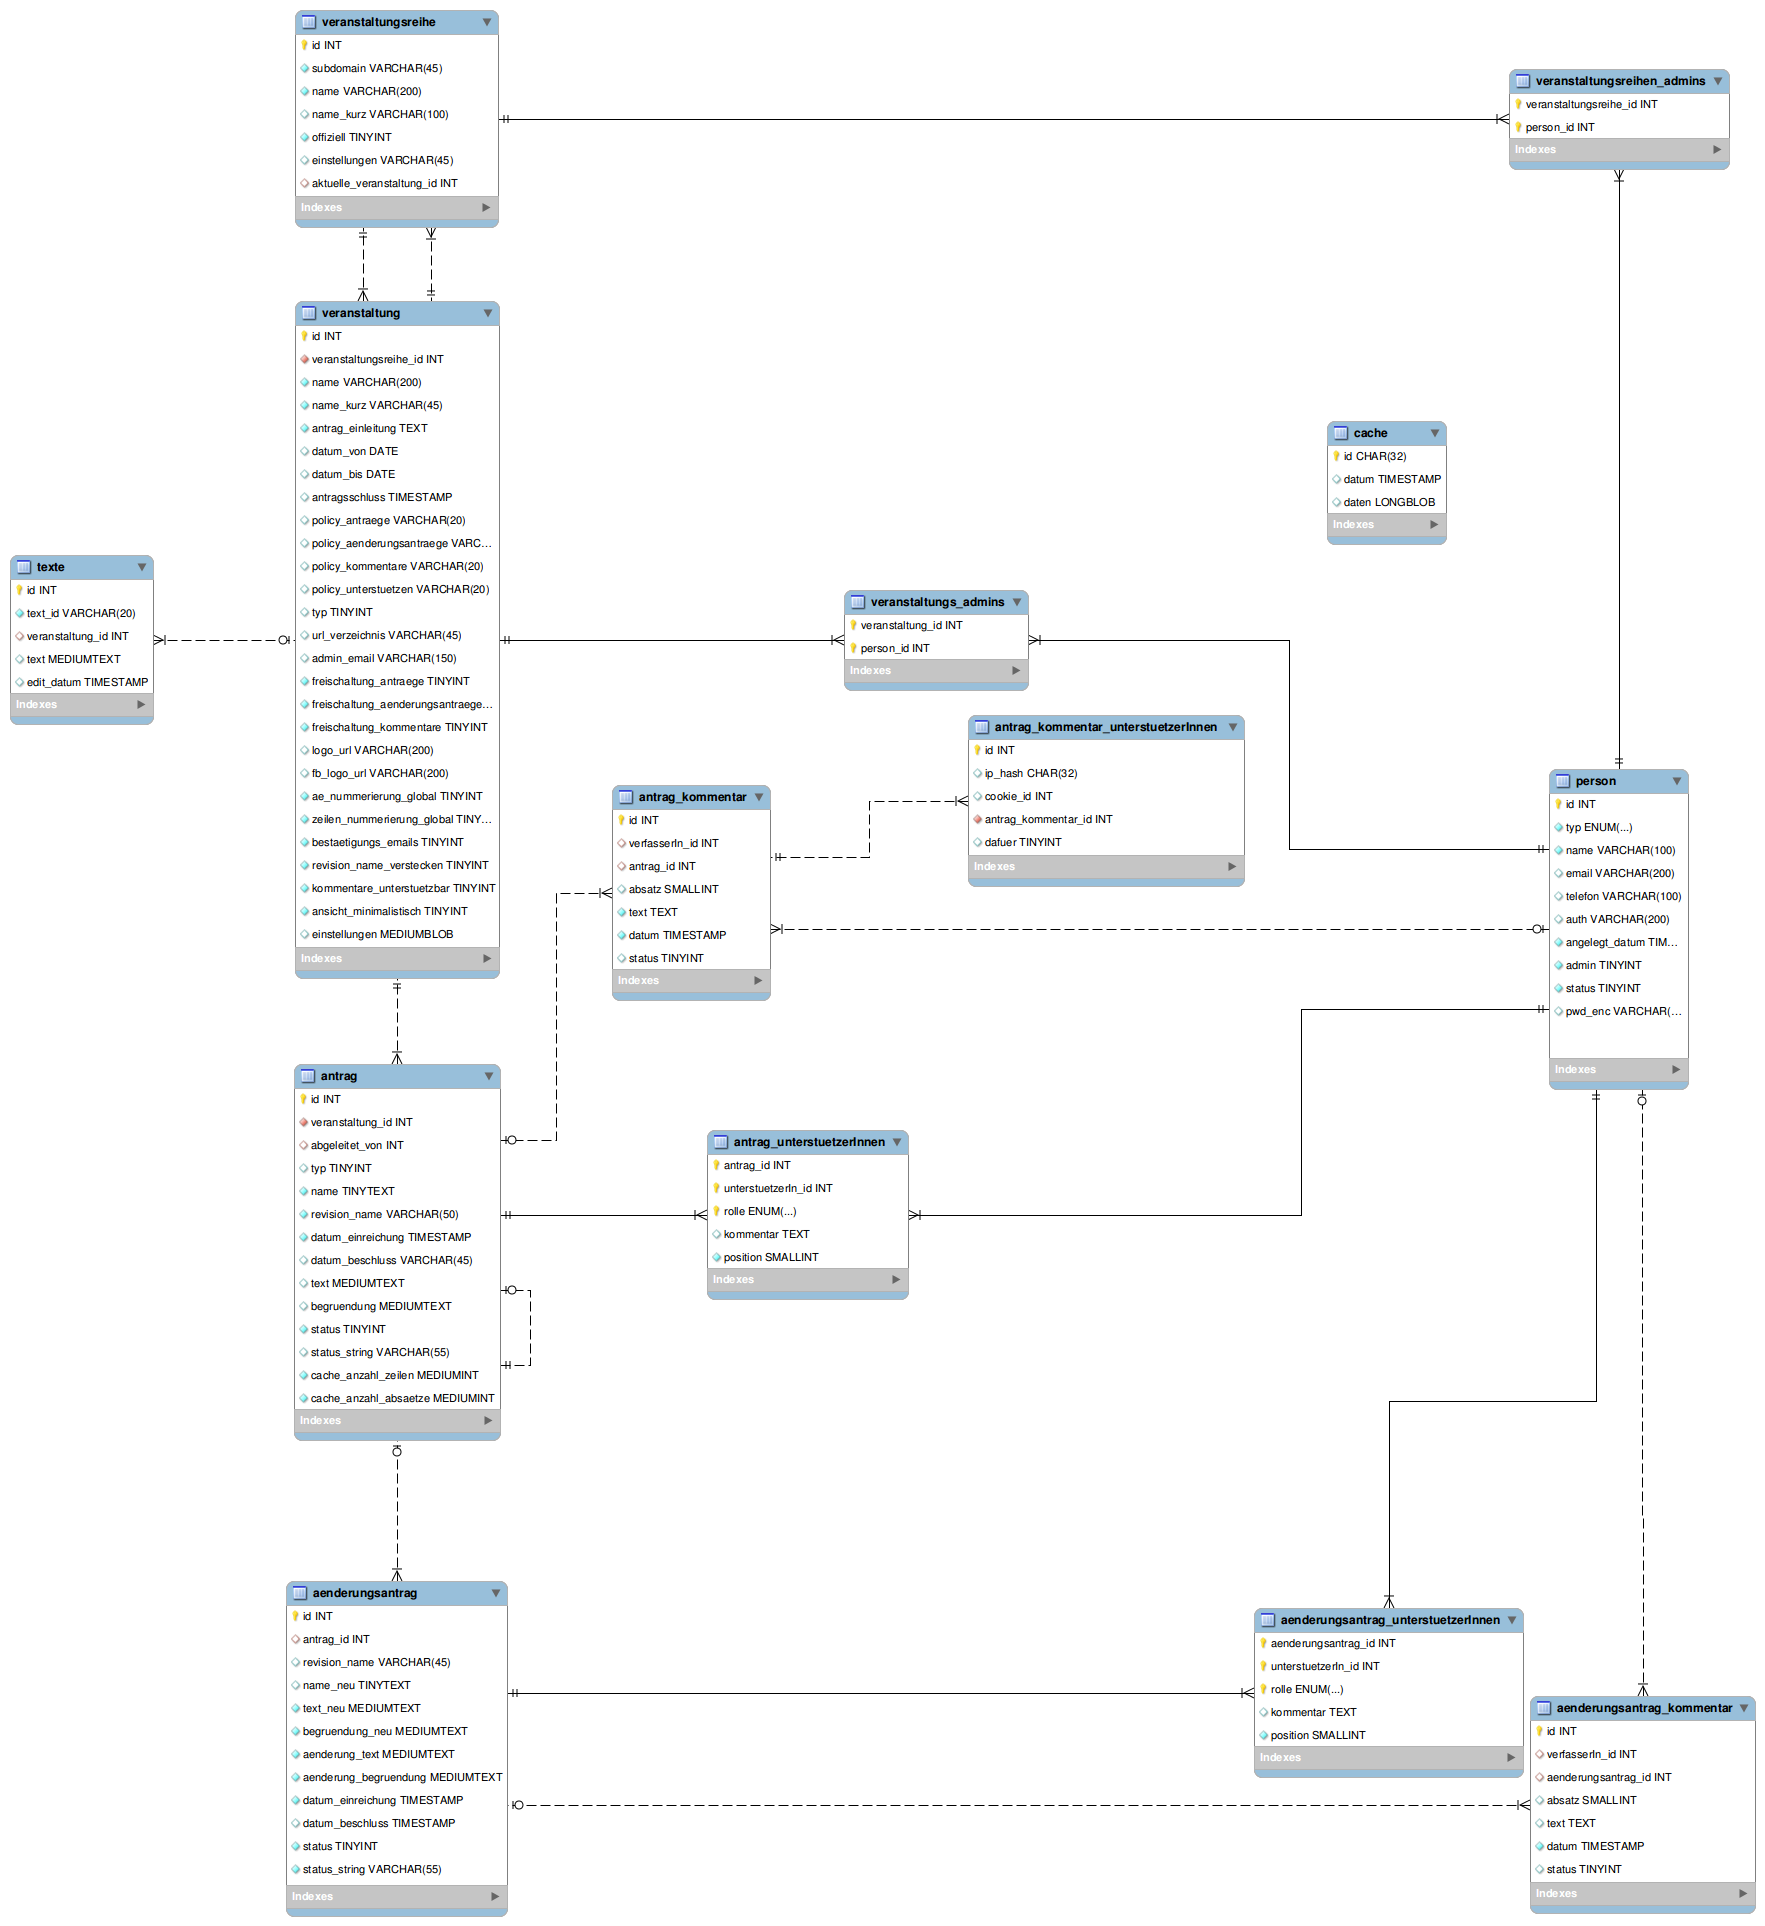
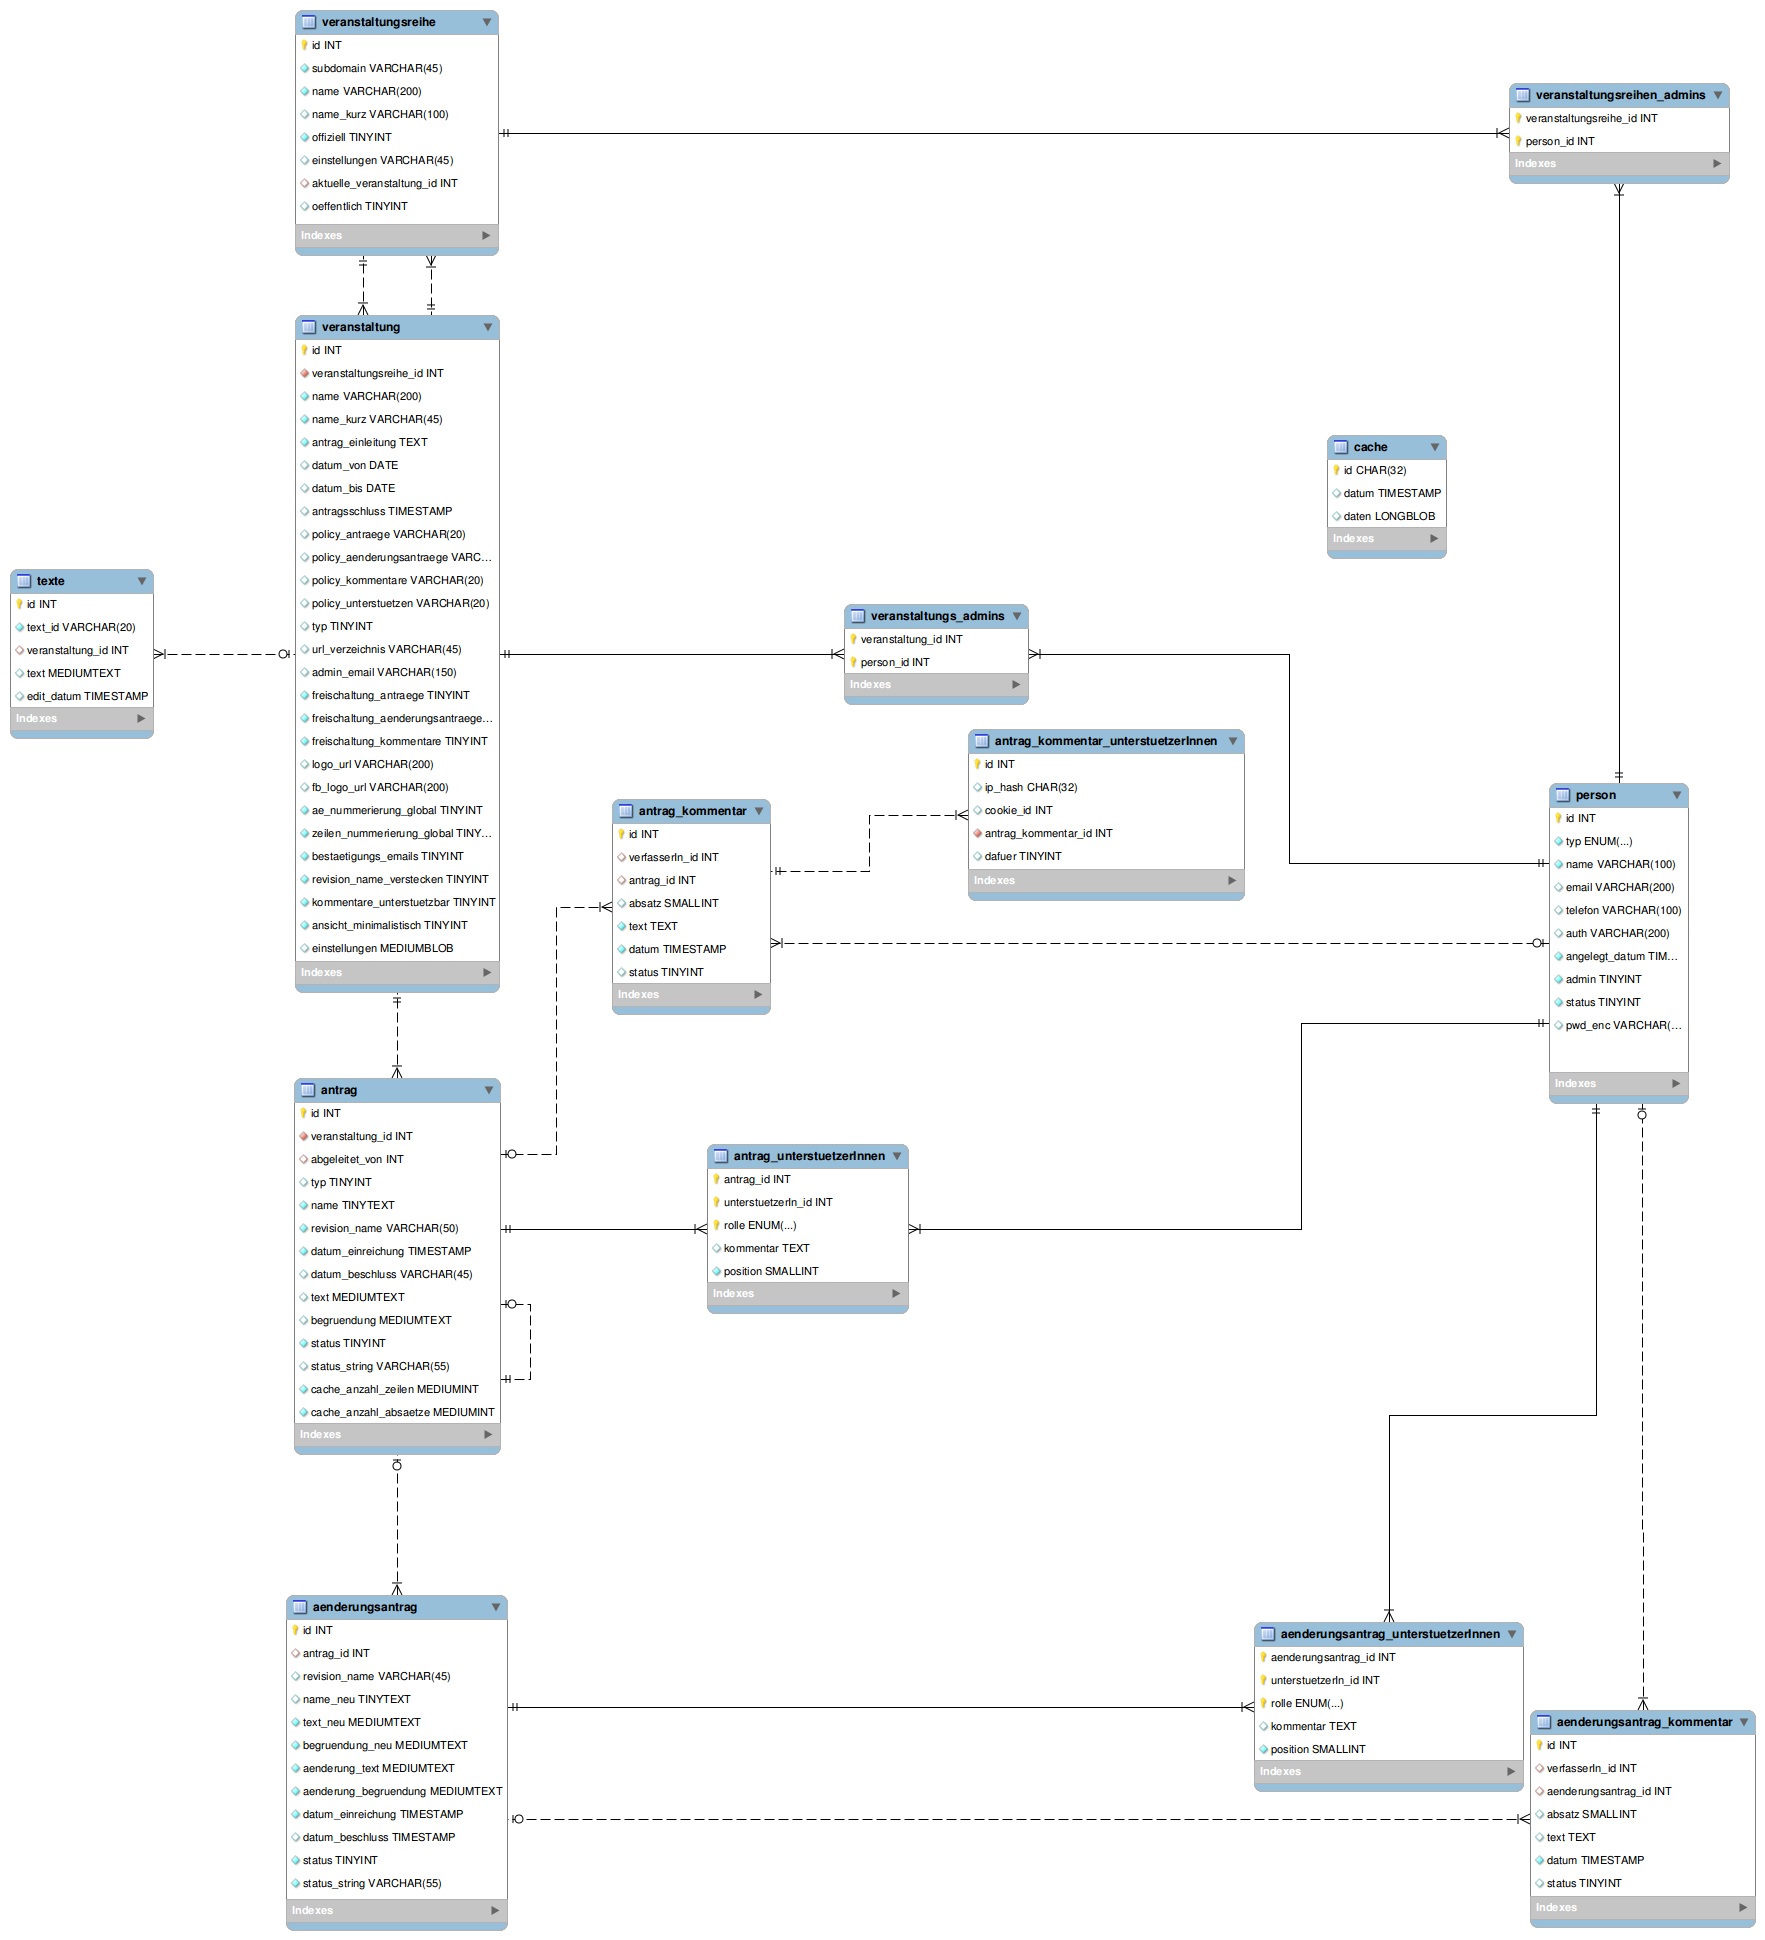
Anfang einer 'Selbst einsetzen'-Seite

diff --git a/protected/assets/css/antraege.css b/protected/assets/css/antraege.css
@@ -260,6 +260,14 @@ h1.well {
 	padding-bottom: 50px;
 }
 
+.span3.antragsgruen_werbung {
+	margin-top: 30px;
+}
+.span3.antragsgruen_werbung > .well { padding-bottom: 10px; }
+.span3.antragsgruen_werbung > .well > div > div.content { padding: 20px; }
+.span3.antragsgruen_werbung .well:first-child .nav-list .nav-header { margin-bottom: 0; }
+.span3.antragsgruen_werbung .well .nav-list { margin-bottom: 0; }
+
 .span9 .antrag {
 	padding: 12px 20px 17px 20px;
 }

diff --git a/protected/components/AntragsgruenController.php b/protected/components/AntragsgruenController.php
@@ -50,9 +50,12 @@ class AntragsgruenController extends CController
 	 */
 	public function createUrl($path, $params = array())
 	{
-		if (!isset($params["veranstaltung_id"]) && $this->veranstaltung !== null) $params["veranstaltung_id"] = $this->veranstaltung->url_verzeichnis;
-		if (!isset($params["veranstaltungsreihe_id"]) && $this->veranstaltungsreihe != null) $params["veranstaltungsreihe_id"] = $this->veranstaltungsreihe->subdomain;
-		if ($path == "veranstaltung/index" && !is_null($this->veranstaltungsreihe) && $params["veranstaltung_id"] == $this->veranstaltungsreihe->aktuelle_veranstaltung->url_verzeichnis) unset($params["veranstaltung_id"]);
+		$p = explode("/", $path);
+		if ($p[0] != "infos") {
+			if (!isset($params["veranstaltung_id"]) && $this->veranstaltung !== null) $params["veranstaltung_id"] = $this->veranstaltung->url_verzeichnis;
+			if (!isset($params["veranstaltungsreihe_id"]) && $this->veranstaltungsreihe != null) $params["veranstaltungsreihe_id"] = $this->veranstaltungsreihe->subdomain;
+			if ($path == "veranstaltung/index" && !is_null($this->veranstaltungsreihe) && $params["veranstaltung_id"] == $this->veranstaltungsreihe->aktuelle_veranstaltung->url_verzeichnis) unset($params["veranstaltung_id"]);
+		}
 		return parent::createUrl($path, $params);
 	}
 

diff --git a/protected/models/Veranstaltungsreihe.php b/protected/models/Veranstaltungsreihe.php
@@ -6,6 +6,7 @@
  * @property string $name
  * @property string $name_kurz
  * @property int $offiziell
+ * @property int $oeffentlich
  * @property string $einstellungen
  * @property int $aktuelle_veranstaltung_id
  *
@@ -90,12 +91,12 @@ class VeranstaltungsReihe extends CActiveRecord
 	public function rules()
 	{
 		return array(
-			array('id, subdomain, name, name_kurz, offiziell', 'required'),
+			array('id, subdomain, name, name_kurz, offiziell, oeffentlich', 'required'),
 			array('name', 'length', 'max' => 200),
 			array('subdomain', 'length', 'max' => 45),
 			array('name', 'length', 'max' => 100),
 			array('name, name_kurz', 'safe'),
-			array('id, name, subdomain, name_kurz, offiziell', 'safe', 'on' => 'search'),
+			array('id, name, subdomain, name_kurz, offiziell, oeffentlich', 'safe', 'on' => 'search'),
 		);
 	}
 
@@ -117,6 +118,7 @@ class VeranstaltungsReihe extends CActiveRecord
 			'subdomain'              => Yii::t('app', 'Subdomain'),
 			'einstellungen'          => "Einstellungen",
 			'offiziell'              => 'Offizielle Veranstaltungsreihe',
+			'oeffentlich'              => 'Öffentlich',
 			'veranstaltungen'        => "Veranstaltungen",
 			'aktuelle_veranstaltung' => "Aktuelle Veranstaltung",
 			'admins'                 => null,

diff --git a/protected/views/veranstaltung/sidebar.php b/protected/views/veranstaltung/sidebar.php
@@ -103,9 +103,10 @@ $this->menus_html[] = $html;
 
 
 
-$html = "<div class='antragsgruen_werbung well'><div class='nav-list'>";
+$html = "</div><div class='span3 antragsgruen_werbung'><div class='well'><div class='nav-list'>";
 $html .= "<div class='nav-header'>Dein Antragsgrün</div>";
-$html .= "<div>Du willst Antragsgrün für deine(n) KV / LV / GJ / BAG / LAK / WTF einsetzen?";
+$html .= "<div class='content'>Du willst Antragsgrün selbst für deine(n) KV / LV / GJ / BAG / LAK einsetzen?";
+$html .= "<div style='text-align: center;'><a href='" . CHtml::encode($this->createUrl("infos/selbstEinsetzen")) . "' class='btn btn-primary' style='margin-top: 15px;'><span class='icon-chevron-right'></span> Infos</a></div>";
 $html .= "</div>";
 $html .= "</div></div>";
 $this->menus_html[] = $html;

diff --git a/protected/views/infos/sidebar.php b/protected/views/infos/sidebar.php
@@ -1,0 +1,13 @@
+<?php
+/**
+ * @var InfosController $this
+ * @var array|Veranstaltungsreihe[] $reihen
+ */
+
+$html = "<div class='well'><ul class='nav nav-list'>";
+$html .= "<li class='nav-header'>Aktuelle Einsatzorte</li>";
+foreach ($reihen as $reihe) {
+	$html .= "<li>" . CHtml::link($reihe->name, $this->createUrl("veranstaltung/index", array("veranstaltungsreihe_id" => $reihe->subdomain))) . "</li>\n";
+}
+$html .= '</ul></div>';
+$this->menus_html[] = $html;

diff --git a/protected/controllers/InfosController.php b/protected/controllers/InfosController.php
@@ -1,0 +1,12 @@
+<?php
+
+class InfosController extends AntragsgruenController
+{
+	public function actionSelbstEinsetzen() {
+		$this->layout = '//layouts/column2';
+		$reihen = Veranstaltungsreihe::model()->findAllByAttributes(array("oeffentlich" => 1));
+		$this->render('selbst_einsetzen', array(
+			"reihen" => $reihen
+		));
+	}
+}

diff --git a/protected/views/infos/selbst_einsetzen.php b/protected/views/infos/selbst_einsetzen.php
@@ -1,0 +1,16 @@
+<?php
+/**
+ * @var InfosController $this
+ * @var array|Veranstaltungsreihe[] $reihen
+ */
+
+include(__DIR__ . "/sidebar.php");
+
+?>
+<h1 class="well">Antragsgrün selbst einsetzen</h1>
+
+<div class="well well_first">
+
+
+
+	</div>
